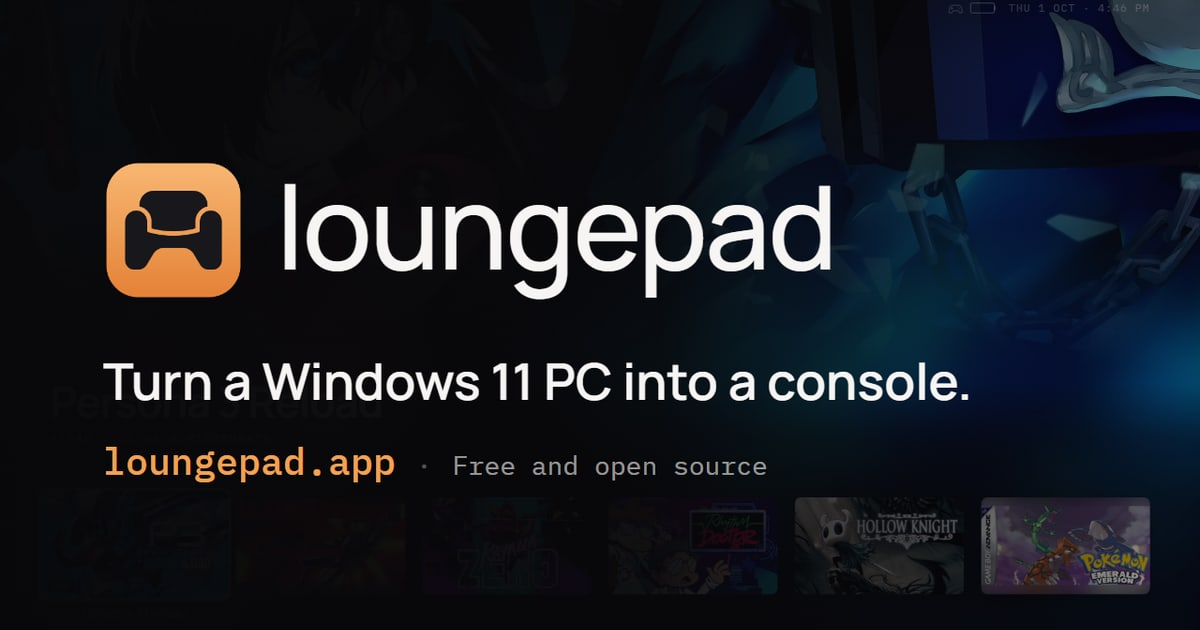
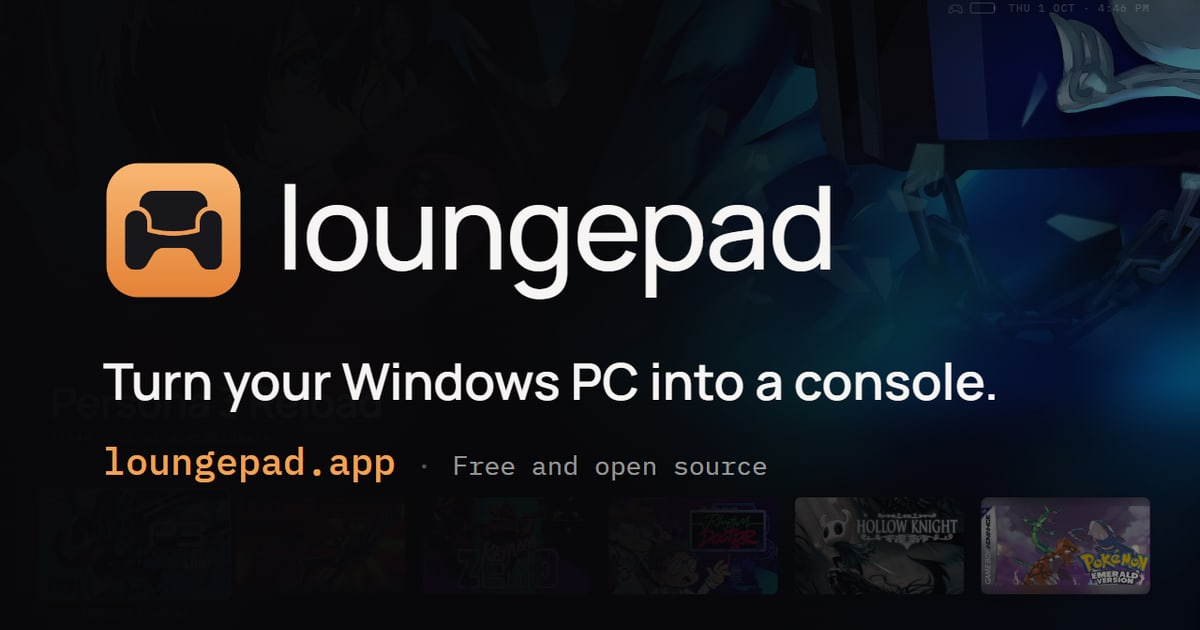
Say "your Windows PC" everywhere instead of Windows 11
- The tagline is "Turn your Windows PC into a console." on the site, the
  README, the share card and the design source
- Drops the "Windows 11" and "Also runs on Windows 10" pills: Windows 10 is
  untested, so the site claims neither; "Free and open source" takes their
  place
- og.jpg is cut again from the trailer's poster, re-rendered with the new
  tagline
- The WebView2 notes say Windows has it rather than naming a version

Changed region(s): [[0.185, 0.573, 0.8325, 0.6635]]

diff --git a/website/index.html b/website/index.html
@@ -3,8 +3,8 @@
 <head>
 <meta charset="utf-8">
 <meta name="viewport" content="width=device-width, initial-scale=1">
-<title>Loungepad — turn a Windows 11 PC into a console</title>
-<meta name="description" content="Loungepad turns a Windows 11 PC into a console: your games, your apps and your whole PC from the couch, with nothing in your hands but a controller. Free and open source.">
+<title>Loungepad — turn your Windows PC into a console</title>
+<meta name="description" content="Loungepad turns your Windows PC into a console: your games, your apps and your whole PC from the couch, with nothing in your hands but a controller. Free and open source.">
 <link rel="canonical" href="https://loungepad.app/">
 <meta name="theme-color" content="#05070B">
 <meta name="color-scheme" content="dark">
@@ -15,15 +15,15 @@
 <meta property="og:type" content="website">
 <meta property="og:url" content="https://loungepad.app/">
 <meta property="og:site_name" content="Loungepad">
-<meta property="og:title" content="Loungepad — turn a Windows 11 PC into a console">
-<meta property="og:description" content="Your games, your apps, your whole PC — all from the couch, with nothing in your hands but a controller. Free, for Windows 11.">
+<meta property="og:title" content="Loungepad — turn your Windows PC into a console">
+<meta property="og:description" content="Your games, your apps, your whole PC — all from the couch, with nothing in your hands but a controller. Free, for Windows.">
 <meta property="og:image" content="https://loungepad.app/img/og.jpg">
 <meta property="og:image:width" content="1200">
 <meta property="og:image:height" content="630">
-<meta property="og:image:alt" content="Loungepad: turn a Windows 11 PC into a console.">
+<meta property="og:image:alt" content="Loungepad: turn your Windows PC into a console.">
 <meta name="twitter:card" content="summary_large_image">
-<meta name="twitter:title" content="Loungepad — turn a Windows 11 PC into a console">
-<meta name="twitter:description" content="Your games, your apps, your whole PC — all from the couch, with nothing in your hands but a controller. Free, for Windows 11.">
+<meta name="twitter:title" content="Loungepad — turn your Windows PC into a console">
+<meta name="twitter:description" content="Your games, your apps, your whole PC — all from the couch, with nothing in your hands but a controller. Free, for Windows.">
 <meta name="twitter:image" content="https://loungepad.app/img/og.jpg">
 <link rel="preconnect" href="https://fonts.googleapis.com">
 <link rel="preconnect" href="https://fonts.gstatic.com" crossorigin>
@@ -36,9 +36,9 @@
   "@type": "SoftwareApplication",
   "name": "Loungepad",
   "url": "https://loungepad.app/",
-  "operatingSystem": "Windows 11",
+  "operatingSystem": "Windows",
   "applicationCategory": "UtilitiesApplication",
-  "description": "Loungepad turns a Windows 11 PC into a console: your games, your apps and your whole PC from the couch, with nothing in your hands but a controller.",
+  "description": "Loungepad turns your Windows PC into a console: your games, your apps and your whole PC from the couch, with nothing in your hands but a controller.",
   "downloadUrl": "https://github.com/sukumar-v/Loungepad/releases/latest",
   "offers": { "@type": "Offer", "price": "0", "priceCurrency": "USD" },
   "image": "https://loungepad.app/img/og.jpg"
@@ -71,13 +71,13 @@
 </header>
 
 <div class="lp-hero-copy">
-<h1 class="lp-h1">Turn a Windows&nbsp;11&nbsp;PC into a console.</h1>
+<h1 class="lp-h1">Turn your Windows&nbsp;PC into a console.</h1>
 <p class="lp-lede">Your games, your apps, your whole PC — all from the couch, with nothing in your hands but a controller.</p>
 <div class="lp-ctas">
 <a href="https://github.com/sukumar-v/Loungepad/releases/latest" target="_blank" rel="noopener" data-nav class="lp-btn lp-btn-fill lp-btn-lg lp-f lp-btn-primary"><span data-glyph data-btn="X" data-size="30" data-drawn="xbox|X|30|" style="height:30px" aria-hidden="true"><span class="gd" style="width:30px;height:30px;background:#3C7CD3;box-shadow:none;color:#FFFFFF;font-size:16px">X</span></span><span>Download for Windows</span></a>
 <a href="https://github.com/sukumar-v/Loungepad" target="_blank" rel="noopener" data-nav class="lp-btn lp-btn-ghost lp-f lp-ghost"><span data-glyph data-btn="Y" data-size="30" data-drawn="xbox|Y|30|" style="height:30px" aria-hidden="true"><span class="gd" style="width:30px;height:30px;background:#E2B128;box-shadow:none;color:#101012;font-size:16px">Y</span></span><span>Star on GitHub</span></a>
 </div>
-<p class="lp-free">Free, for Windows 11</p>
+<p class="lp-free">Free, for Windows</p>
 </div>
 
 <!-- The TV: the app itself, with its own glow spilling out behind it. -->
@@ -326,8 +326,7 @@
 <h2 id="lp-install-h" class="lp-h2">On the couch in a minute.</h2>
 <p>There's nothing else to install. Download it, open it, and answer a few quick questions with your controller while it finds your games.</p>
 <div class="lp-pills">
-<span class="lp-pill">Windows 11</span>
-<span class="lp-pill">Also runs on Windows 10</span>
+<span class="lp-pill">Free and open source</span>
 <span class="lp-pill">Keeps itself up to date</span>
 </div>
 </div>

diff --git a/website/design/Main.dc.html b/website/design/Main.dc.html
@@ -3,7 +3,7 @@
 <head>
 <meta charset="utf-8">
 <meta name="viewport" content="width=device-width, initial-scale=1">
-<title>Loungepad — turn a Windows 11 PC into a console</title>
+<title>Loungepad — turn your Windows PC into a console</title>
 <script src="./support.js"></script>
 </head>
 <body>
@@ -94,7 +94,7 @@ a{color:#F2F5FA}a:hover{color:var(--accent)}
 </header>
 
 <div style="max-width: 920px; margin: 0 auto; padding-top: clamp(56px, 7vw, 100px); display: flex; flex-direction: column; align-items: center; text-align: center; animation: lpRise 600ms cubic-bezier(0.2, 0.9, 0.2, 1) both">
-<h1 style="margin: 0; font-size: clamp(44px, 6.4vw, 92px); line-height: 0.98; font-weight: 700; letter-spacing: -0.04em; text-wrap: balance">Turn a Windows&nbsp;11&nbsp;PC into a console.</h1>
+<h1 style="margin: 0; font-size: clamp(44px, 6.4vw, 92px); line-height: 0.98; font-weight: 700; letter-spacing: -0.04em; text-wrap: balance">Turn your Windows&nbsp;PC into a console.</h1>
 <p style="margin: 26px 0 0; max-width: 620px; font-size: clamp(18px, 1.6vw, 21px); line-height: 1.55; color: rgba(242,245,250,0.76); text-wrap: pretty">Your games, your apps, your whole PC — all from the couch, with nothing in your hands but a controller.</p>
 <div class="lp-ctas" style="margin-top: 38px; display: flex; flex-wrap: wrap; justify-content: center; align-items: center; gap: 14px; width: 100%">
 <a href="https://github.com/sukumar-v/Loungepad/releases/latest" target="_blank" rel="noopener" data-nav="1" class="lp-f lp-btn-primary" style="display: inline-flex; align-items: center; gap: 12px; height: 60px; padding: 0 28px 0 15px; border-radius: 999px; background: var(--accent, #F0A253); color: #08080A; font-size: 19px; font-weight: 700; text-decoration: none; box-sizing: border-box">
@@ -106,7 +106,7 @@ a{color:#F2F5FA}a:hover{color:var(--accent)}
 <span>Star on GitHub</span>
 </a>
 </div>
-<p style="margin: 22px 0 0; font-size: 15px; line-height: 1.5; color: rgba(242,245,250,0.62)">Free, for Windows 11</p>
+<p style="margin: 22px 0 0; font-size: 15px; line-height: 1.5; color: rgba(242,245,250,0.62)">Free, for Windows</p>
 </div>
 
 <!-- The TV: the app itself, with its own glow spilling out behind it. -->
@@ -339,8 +339,7 @@ a{color:#F2F5FA}a:hover{color:var(--accent)}
 <h2 id="lp-install-h" style="margin: 16px 0 0; font-size: clamp(34px, 4.2vw, 60px); line-height: 1.02; font-weight: 700; letter-spacing: -0.03em; text-wrap: balance">On the couch in a minute.</h2>
 <p style="margin: 22px 0 0; font-size: 17px; line-height: 1.6; color: rgba(242,245,250,0.72)">There's nothing else to install. Download it, open it, and answer a few quick questions with your controller while it finds your games.</p>
 <div style="margin-top: 28px; display: flex; flex-wrap: wrap; gap: 10px">
-<span style="padding: 9px 15px; border-radius: 999px; border: 1px solid rgba(242,245,250,0.16); font-size: 14px; font-weight: 500; color: rgba(242,245,250,0.82)">Windows 11</span>
-<span style="padding: 9px 15px; border-radius: 999px; border: 1px solid rgba(242,245,250,0.16); font-size: 14px; font-weight: 500; color: rgba(242,245,250,0.82)">Also runs on Windows 10</span>
+<span style="padding: 9px 15px; border-radius: 999px; border: 1px solid rgba(242,245,250,0.16); font-size: 14px; font-weight: 500; color: rgba(242,245,250,0.82)">Free and open source</span>
 <span style="padding: 9px 15px; border-radius: 999px; border: 1px solid rgba(242,245,250,0.16); font-size: 14px; font-weight: 500; color: rgba(242,245,250,0.82)">Keeps itself up to date</span>
 </div>
 </div>

diff --git a/README.md b/README.md
@@ -6,7 +6,7 @@
 </h1>
 
 <p align="center">
-  <b>Turn a Windows 11 PC into a console.</b><br>
+  <b>Turn your Windows PC into a console.</b><br>
   Your games and your whole desktop, driven from the couch with just a controller.
 </p>
 
@@ -23,7 +23,7 @@
   <a href="https://github.com/sukumar-v/Loungepad/releases/latest"><img alt="Latest release" src="https://img.shields.io/github/v/release/sukumar-v/Loungepad?label=latest&color=F0A253"></a>
   <img alt="Total downloads" src="https://img.shields.io/github/downloads/sukumar-v/Loungepad/total?color=1F1F24">
   <a href="LICENSE"><img alt="License: Apache 2.0" src="https://img.shields.io/badge/license-Apache--2.0-1F1F24"></a>
-  <img alt="Platform: Windows 11" src="https://img.shields.io/badge/platform-Windows%2011-1F1F24">
+  <img alt="Platform: Windows" src="https://img.shields.io/badge/platform-Windows-1F1F24">
 </p>
 
 ![Loungepad's library](assets/screens/library.jpg)
@@ -109,7 +109,7 @@ Works with Xbox, PlayStation, Switch and other controllers. A keyboard and mouse
 3. A short setup, driven with the controller, asks which screen is the TV, signs in to your stores
    and picks the look. It finds your games while you answer.
 
-It's one file, with nothing to unzip and nothing else to install: .NET is bundled, and Windows 11
+It's one file, with nothing to unzip and nothing else to install: .NET is bundled, and Windows
 already has the WebView2 runtime. Loungepad updates itself from this repository's releases.
 Settings and the library live in `%APPDATA%\Loungepad`; to uninstall, delete `Loungepad.exe`.
 
@@ -156,7 +156,7 @@ rates thousands more, whatever cause you care about.
 
 ## Build
 
-Needs the **.NET 8 SDK** and the **WebView2 runtime** (preinstalled on Windows 11).
+Needs the **.NET 8 SDK** and the **WebView2 runtime** (Windows already has it).
 
 ```bash
 dotnet build Loungepad.sln

diff --git a/CLAUDE.md b/CLAUDE.md
@@ -805,6 +805,12 @@ Stop the scrolled grid from clipping through the All games header
   B paths run for real; section screenshots stitched into contact sheets with sharp. Lighthouse
   (desktop, local server) 99/100/100/100; the text-compression and bfcache audits it lists are
   the local server's no-cache headers, not the site.
+- **The copy says "your Windows PC", never Windows 11** (the user's call, Oct 6 2026): the site, the
+  README, the docs, the repo description, the trailer's `TAGLINE` and end card, and the share images
+  cut from its poster (`website/img/og.jpg`, GitHub's social preview). Windows 10 is untested, so
+  nothing claims it either: the "Also runs on Windows 10" pill went with the "Windows 11" one.
+  Technical notes that are about Windows 11 itself (the shell reading Xbox pads, build numbers)
+  stay as they are.
 - **`/feedback` is `feedback.html`, a Tally form** (`tally.so/r/WOvqlL`, the user's; Oct 6 2026)
   embedded on a light card, because Tally draws dark text. Tally's own snippet is inline script,
   which the CSP refuses, so `feedback.js` is that snippet as a file; `embed.js` sizes the frame

diff --git a/docs/GUIDE.md b/docs/GUIDE.md
@@ -16,9 +16,9 @@ Everything Loungepad does, in detail. The [README](../README.md) is the short ve
 somewhere it can stay, and run it.
 
 It is one file. The .NET runtime, the interface, the bundled theme and the Vortex extension are all
-inside it, so there is nothing to unzip and nothing else to install. Windows 11 already has the one
-thing that is not bundled — the **Edge WebView2 Runtime** — and on Windows 10 the app will tell you
-where to get it.
+inside it, so there is nothing to unzip and nothing else to install. Windows already has the one
+thing that is not bundled — the **Edge WebView2 Runtime** — and if yours does not, the app will
+tell you where to get it.
 
 Releases are code-signed. Windows SmartScreen can still warn about a new release it has not seen
 many downloads of yet; if it does, choose **More info → Run anyway**.

diff --git a/website/HANDOFF.md b/website/HANDOFF.md
@@ -56,7 +56,7 @@ in body copy, or names of tools like Vortex or RivaTuner.
 ## The page, top to bottom
 
 1. **Header** — logo + "loungepad", nav links (Features, Controllers, Get started), Download button.
-2. **Hero** — centred: headline, one sentence, Download for Windows + Star on GitHub, "Free, for Windows 11".
+2. **Hero** — centred: headline, one sentence, Download for Windows + Star on GitHub, "Free, for Windows".
    One soft accent glow behind it, nothing else.
 3. **TV on a stand** — a TV with a thin bezel and a small accent power light, showing six real
    screenshots that crossfade every 7 seconds (paused while hovered, or once a visitor picks one).

diff --git a/CONTRIBUTING.md b/CONTRIBUTING.md
@@ -15,7 +15,7 @@ adding `SendInput` or virtual-HID paths aimed at the lock screen will be decline
 
 ## Building
 
-Requirements: **.NET 8 SDK** and the **WebView2 Runtime** (preinstalled on Windows 11).
+Requirements: **.NET 8 SDK** and the **WebView2 Runtime** (Windows already has it).
 
 ```bash
 dotnet build Loungepad.sln

diff --git a/docs/DEVELOPMENT.md b/docs/DEVELOPMENT.md
@@ -4,7 +4,7 @@
 
 ## Build & run
 
-Requirements: **.NET 8 SDK**, **WebView2 Runtime** (preinstalled on Windows 11).
+Requirements: **.NET 8 SDK**, **WebView2 Runtime** (Windows already has it).
 
 ```bash
 dotnet build Loungepad.sln
